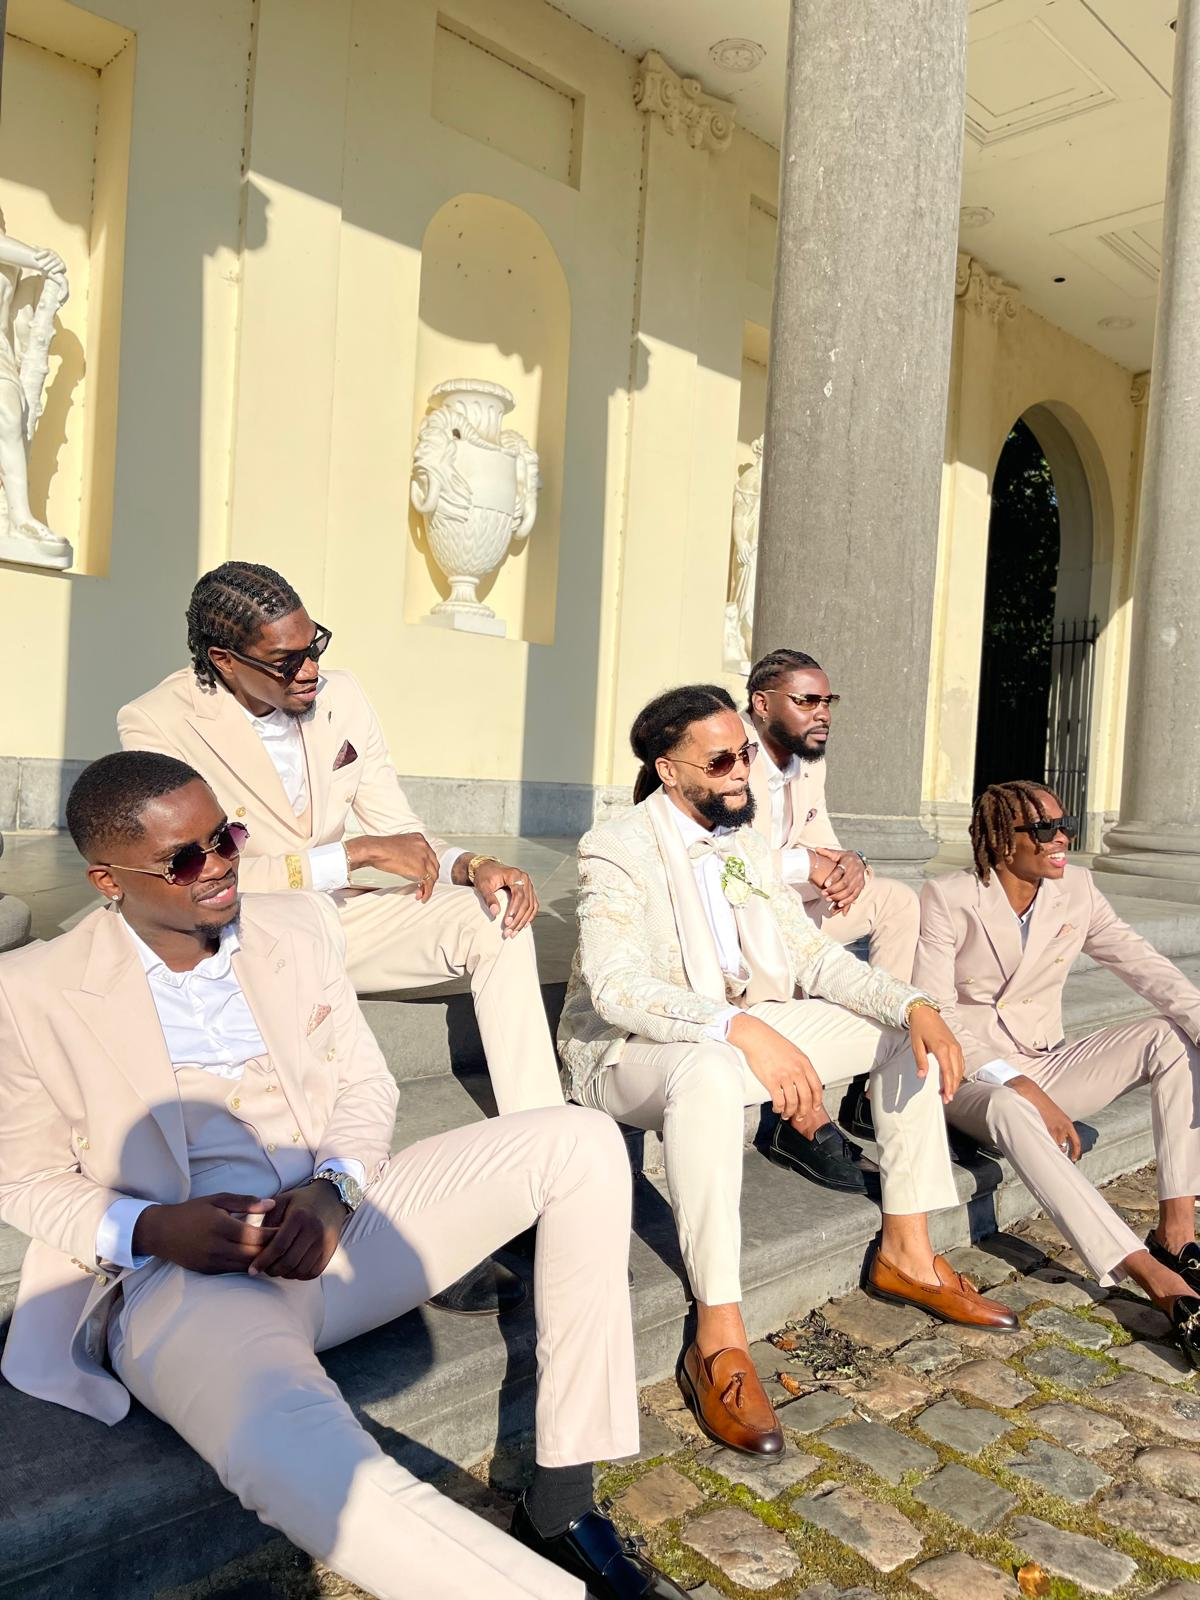
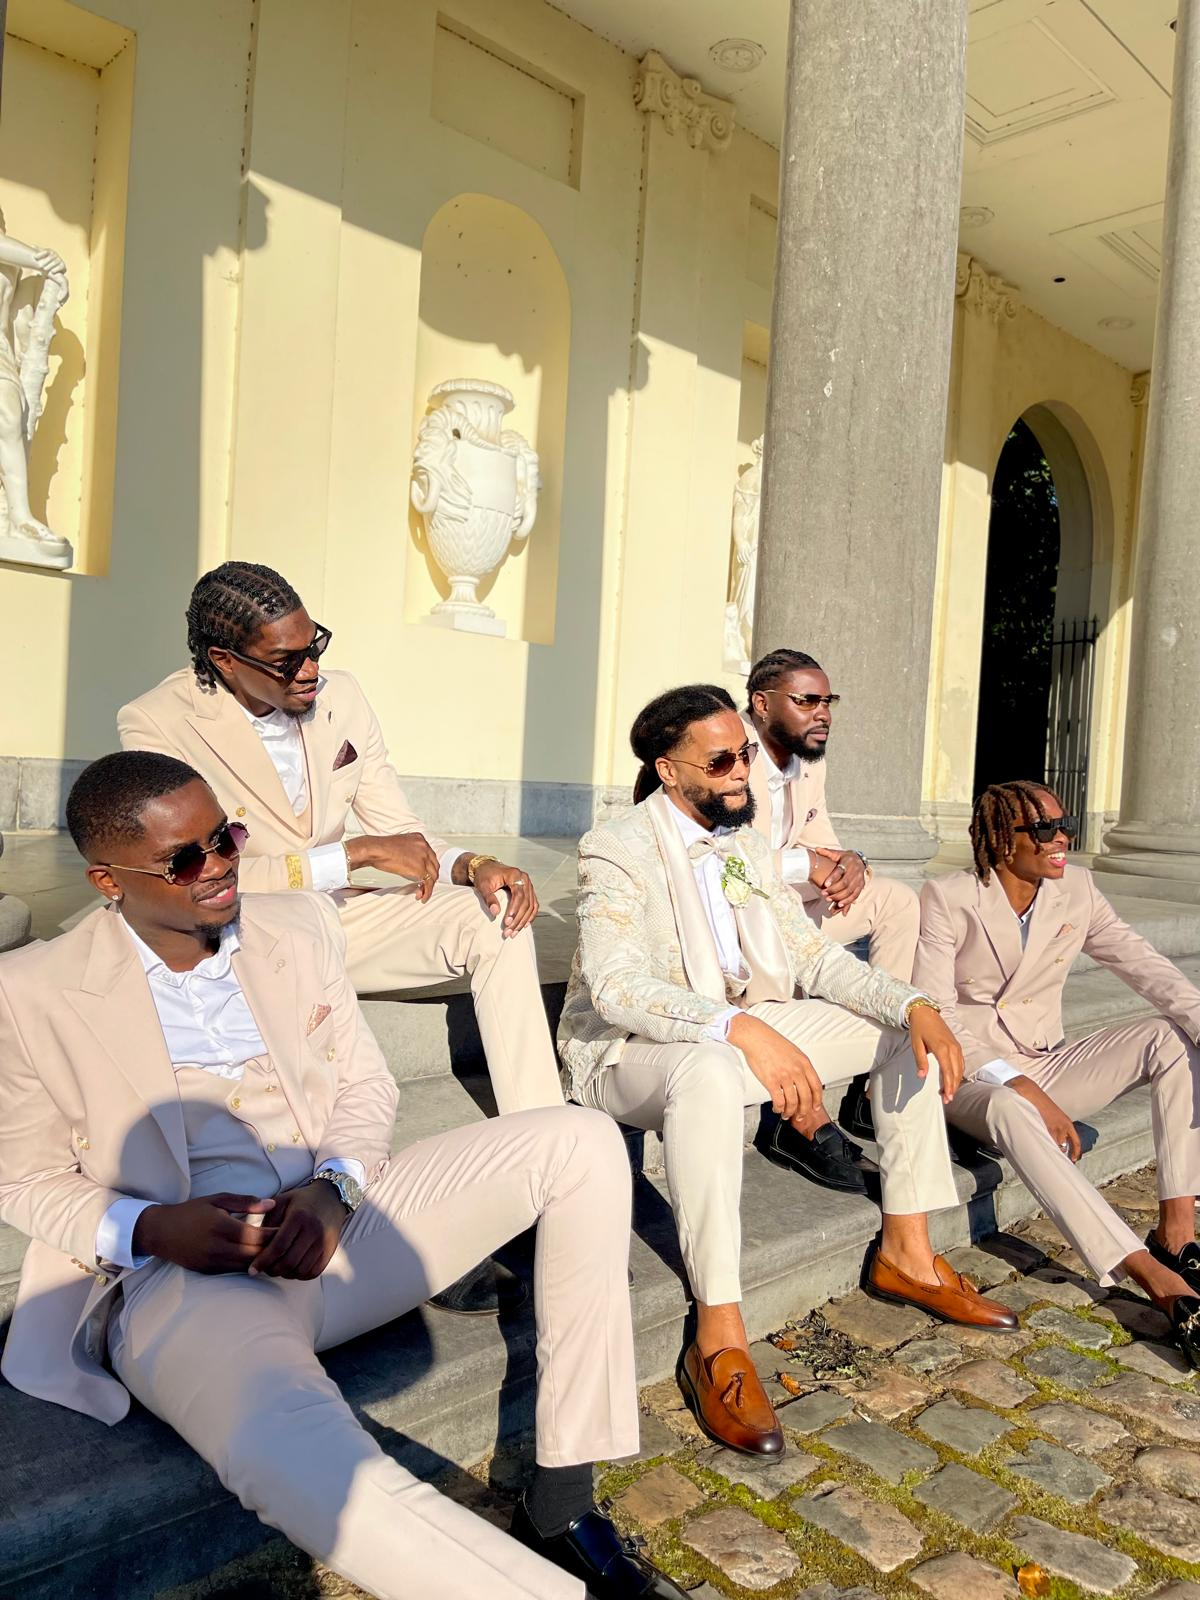
Replace groomsmen testimonial photo with darker version

diff --git a/index.html b/index.html
@@ -122,7 +122,7 @@
   <div class="testimonial-photos">
     <div class="arch-photo peek-photo has-photo" style="background-image:url('images/bridesmaids.jpg')"></div>
     <div class="arch-photo peek-photo peek-center has-photo" style="background-image:url('images/bride-mirror.jpg');background-position:center 25%;"></div>
-    <div class="arch-photo peek-photo has-photo" style="background-image:url('images/groomsmen.jpg');background-position:center 55%;"></div>
+    <div class="arch-photo peek-photo has-photo" style="background-image:url('images/groomsmen.jpg?v=2');background-position:center 55%;"></div>
   </div>
   <div class="testimonial-dots" aria-hidden="true"><span></span><span class="is-active"></span><span></span></div>
 </section>
